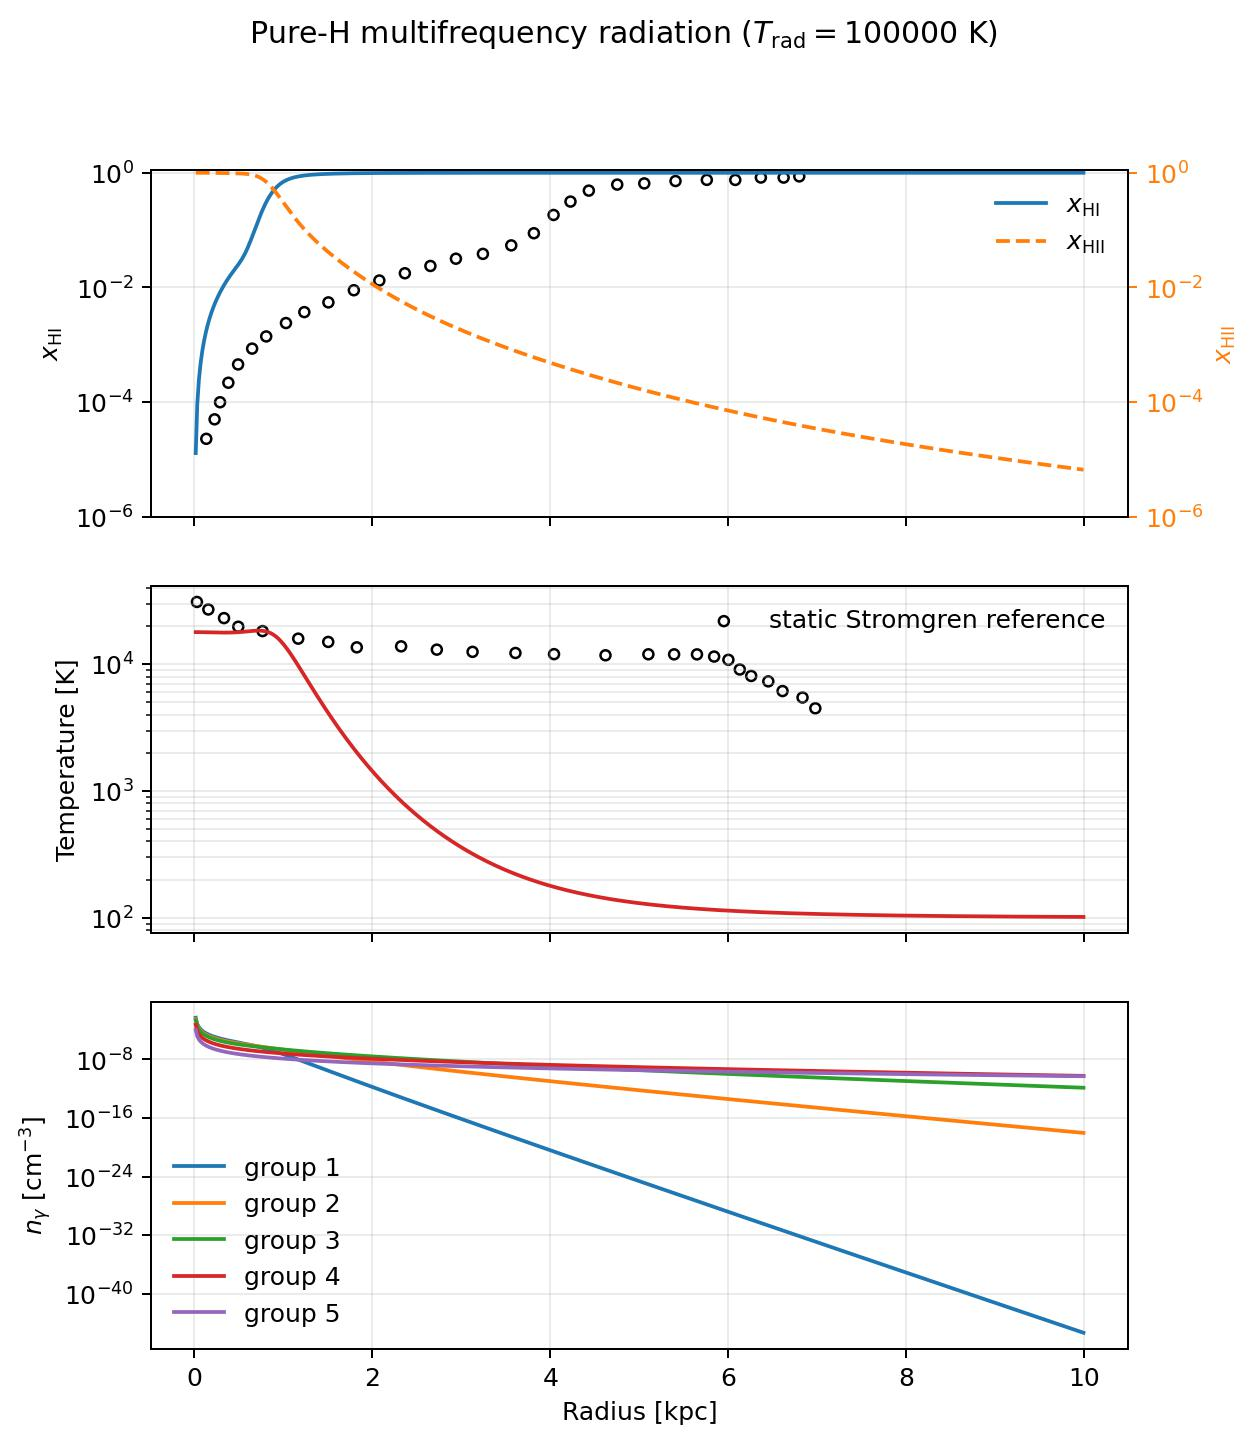
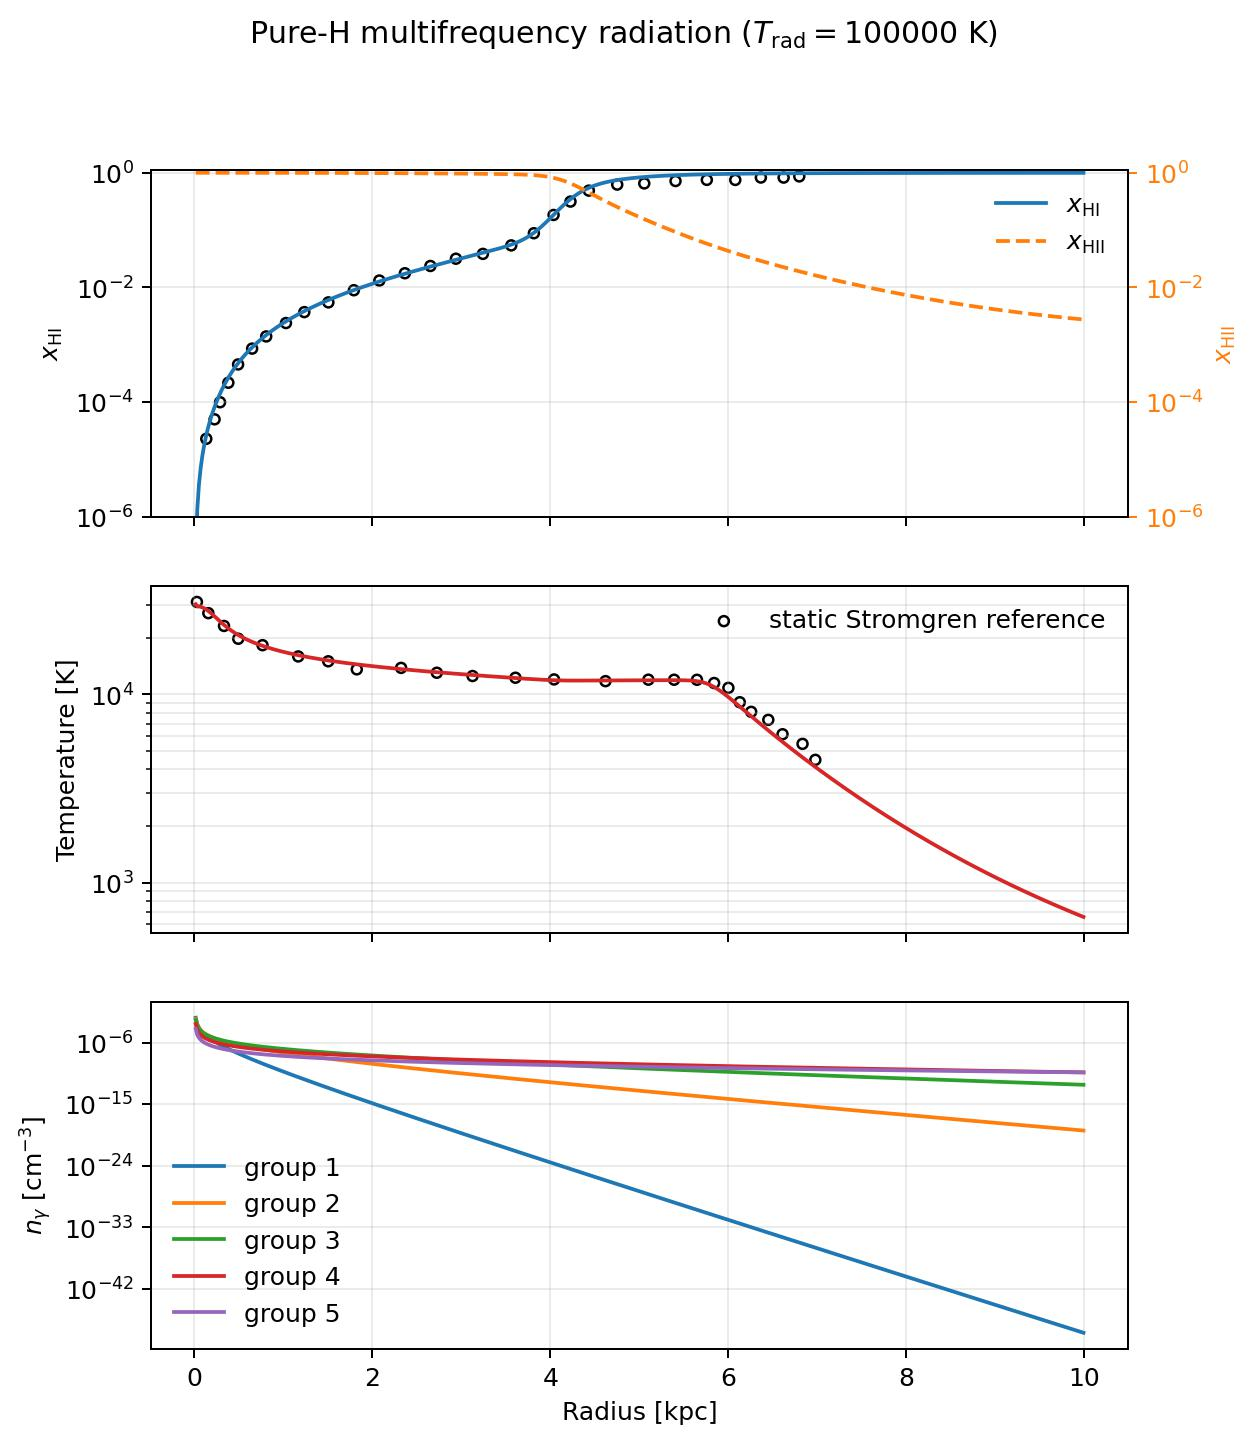
Fixed the initial EOS issue that affect the temperature of STromgren sphere

diff --git a/tests/test_example.py b/tests/test_example.py
@@ -365,7 +365,8 @@ class Testing(unittest.TestCase):
         runparams, icparams = load_example_parameters(config_filename)
 
         self.assertEqual(runparams['radiative_transfer'], True)
-        self.assertTrue(runparams['hydrogen_initial_collisional_equilibrium'])
+        self.assertFalse(runparams['hydrogen_initial_collisional_equilibrium'])
+        self.assertEqual(runparams['hydrogen_xHI_initial'], 0.9988)
         self.assertEqual(
             runparams['radiation_spectrum_total_photon_rate'].to_value(1.0 / unyt.s),
             5.0e48,
@@ -387,6 +388,44 @@ class Testing(unittest.TestCase):
                 [13.6, 24.6, 35.5, 54.4, 75.0, 50000.0],
             )
             self.assertEqual(len(group['ionizing_photon_energy_erg']), 5)
+        self.assertEqual(icparams['number_of_cells'], 512)
+
+    def test_multifrequency_radiative_transfer_sph1d_c2ray_uses_distinct_outputs(self):
+        config_filename = (
+            Path(__file__).resolve().parents[1]
+            / 'example'
+            / 'MultiFrequencyRadiativeTransferSph1D'
+            / 'multifrequency_radiative_transfer_sph1d_c2ray.yaml'
+        )
+        runparams, icparams = load_example_parameters(config_filename)
+
+        self.assertEqual(runparams['radiative_transfer_temporal_scheme'], 'c2ray')
+        self.assertEqual(runparams['outfileprefix'], 'Output_C2Ray')
+        self.assertEqual(
+            Path(runparams['ICfilename']).name,
+            'InitialCondition_C2Ray.hdf5',
+        )
+        self.assertEqual(
+            runparams['figure_filename'],
+            'MultiFrequencyRadiativeTransferSph1D_C2Ray.jpg',
+        )
+        self.assertEqual(icparams['number_of_cells'], 512)
+
+    def test_multifrequency_radiative_transfer_sph1d_c2ray_dt0p05_uses_small_timestep(self):
+        config_filename = (
+            Path(__file__).resolve().parents[1]
+            / 'example'
+            / 'MultiFrequencyRadiativeTransferSph1D'
+            / 'multifrequency_radiative_transfer_sph1d_c2ray_dt0p05.yaml'
+        )
+        runparams, icparams = load_example_parameters(config_filename)
+
+        self.assertEqual(runparams['radiative_transfer_temporal_scheme'], 'c2ray')
+        self.assertEqual(runparams['outfileprefix'], 'Output_C2Ray_dt0p05')
+        self.assertEqual(
+            runparams['evolution_timestep'].to_value(unyt.Myr),
+            0.05,
+        )
         self.assertEqual(icparams['number_of_cells'], 512)
 
     def test_stellar_wind_bubble1d_uses_yaml_config(self):

diff --git a/tests/test_solver.py b/tests/test_solver.py
@@ -1,5 +1,6 @@
 import unittest
 from types import SimpleNamespace
+from unittest.mock import patch
 
 import numpy as np
 import unyt
@@ -165,6 +166,49 @@ class Testing(unittest.TestCase):
 
         with self.assertRaisesRegex(ValueError, "par\\.CodeUnits"):
             sim.Callreadhdf5()
+
+    @patch('radhydropy.rsim.rio.readhdf5')
+    def test_callreadhdf5_rebuilds_eos_from_restored_header(self, readhdf5):
+        restored_units = CodeUnits.from_mapping(
+            {
+                'name': 'restored_units',
+                'InternalUnitSystem': {
+                    'UnitMass_in_cgs': 2.0,
+                    'UnitLength_in_cgs': 3.0,
+                    'UnitVelocity_in_cgs': 4.0,
+                    'UnitCurrent_in_cgs': 1.0,
+                    'UnitTemp_in_cgs': 5.0,
+                },
+            }
+        )
+        sim = Rsim.__new__(Rsim)
+        sim.par = SimpleNamespace(
+            ICfilename='dummy.hdf5',
+            CodeUnits=CODE_UNITS,
+            EOStype='polytropic',
+            gamma=1.4,
+            time=0.0,
+        )
+        sim.mesh = SimpleNamespace()
+        sim.fluid = RealFluid()
+        original_eos = RHEOS('polytropic', gamma=1.4, code_units=CODE_UNITS)
+        sim.fluid.eos = original_eos
+        sim.checkparams = lambda: None
+
+        def restore_header(par, mesh, fluid, filename):
+            par.EOStype = 'polytropic'
+            par.gamma = 5.0 / 3.0
+            par.CodeUnits = restored_units
+            par.time = 7.0
+
+        readhdf5.side_effect = restore_header
+        sim.Callreadhdf5()
+
+        self.assertIsNot(sim.fluid.eos, original_eos)
+        self.assertEqual(sim.fluid.eos.EOStype, 'polytropic')
+        self.assertEqual(sim.fluid.eos.gamma, 5.0 / 3.0)
+        self.assertIs(sim.fluid.eos.CodeUnits, restored_units)
+        self.assertEqual(sim.fluid.time, 7.0)
 
     def test_open_boundary_fills_all_ghost_cells(self):
         fluid = Fluid()

diff --git a/example/MultiFrequencyRadiativeTransferSph1D/multifrequency_radiative_transfer_sph1d.py b/example/MultiFrequencyRadiativeTransferSph1D/multifrequency_radiative_transfer_sph1d.py
@@ -68,9 +68,11 @@ def _save_plot(output_filename, config, figure_filename, config_filename):
     temperature_K = (
         np.asarray(fluid.temp[interior], dtype=float) * code.temperature_unit
     ).to_value(unyt.K)
+    ngamma_values = np.asarray(fluid.ngamma, dtype=float)
+    if ngamma_values.ndim == 1:
+        ngamma_values = ngamma_values[None, :]
     ngamma = (
-        np.asarray(fluid.ngamma[:, interior], dtype=float)
-        * code.number_density_unit
+        ngamma_values[:, interior] * code.number_density_unit
     ).to_value(1.0 / unyt.cm**3)
 
     xhi_reference = _resolve_reference(
@@ -153,9 +155,13 @@ def _save_plot(output_filename, config, figure_filename, config_filename):
 def main(config_filename=DEFAULT_CONFIG):
     runparams, icparams = load_example_parameters(config_filename, Path.cwd())
     config = {**runparams, **icparams}
-    runparams["ICfilename"] = str(Path(runparams["outdir"]) / "InitialCondition.hdf5")
-    runparams["outdir"] = str(Path.cwd())
-    runparams["savedir"] = str(Path.cwd())
+    output_dir = Path.cwd()
+    ic_filename = Path(runparams.get("ICfilename", "InitialCondition.hdf5"))
+    if not ic_filename.is_absolute():
+        ic_filename = output_dir / ic_filename
+    runparams["ICfilename"] = str(ic_filename)
+    runparams["outdir"] = str(output_dir)
+    runparams["savedir"] = str(output_dir)
     config.update(runparams)
 
     tools.write_initial_condition(config, runparams)
@@ -168,7 +174,9 @@ def main(config_filename=DEFAULT_CONFIG):
         runparams["final_time"],
         runparams["evolution_timestep"],
     )
-    output_filename = Path(runparams["outdir"]) / "Output_000.hdf5"
+    output_filename = output_dir / (
+        f"{runparams.get('outfileprefix', 'Output')}_000.hdf5"
+    )
     rio.writehdf5(sim, output_filename)
     figure_filename = Path(runparams["savedir"]) / config.get(
         "figure_filename", "MultiFrequencyRadiativeTransferSph1D.jpg"

diff --git a/radhydropy/rsim.py b/radhydropy/rsim.py
@@ -59,6 +59,15 @@ class Rsim():
         print("--- %s seconds ---" % (time.time() - start_time))
         self._require_code_units()
         rio.readhdf5(self.par, self.mesh, self.fluid, self.par.ICfilename)
+        # ``readhdf5`` restores EOS parameters and code units from the file
+        # header.  The EOS object was created before that restoration in
+        # ``__init__``, so rebuild it to prevent stale gamma/units from being
+        # used for pressure, energy, and temperature conversions.
+        self.fluid.eos = EOS(
+            self.par.EOStype,
+            self.par.gamma,
+            getattr(self.par, 'CodeUnits', None),
+        )
         self.checkparams()
         self.fluid.SetFluidTime(self.par.time)
         print("--- Start Initial Time ---")

diff --git a/radhydropy/solver.py b/radhydropy/solver.py
@@ -272,8 +272,8 @@ class Solver():
         for attr in fields:
             quan = getattr(fluid, attr)
             if attr == 'ngamma' and np.ndim(quan) == 2:
-                quan[:, left_ghost] = quan[:, interior][-noghost:]
-                quan[:, right_ghost] = quan[:, interior][:noghost]
+                quan[:, left_ghost] = quan[:, interior][:, -noghost:]
+                quan[:, right_ghost] = quan[:, interior][:, :noghost]
             else:
                 quan[left_ghost] = quan[interior][-noghost:]
                 quan[right_ghost] = quan[interior][:noghost]

diff --git a/example/StaticStromgrenSpherePhotoheating1D/tools.py b/example/StaticStromgrenSpherePhotoheating1D/tools.py
@@ -137,7 +137,10 @@ def build_static_problem(config):
             config.get('initial_temperature', 1.0e4 * unyt.K).to_value(unyt.K)
         )
     else:
-        fluid.xHI = np.ones(par.nogrid)
+        fluid.xHI = np.ones(par.nogrid) * config.get(
+            'hydrogen_xHI_initial',
+            1.0,
+        )
     if par.thermochemistry_network == 'hydrogen_helium':
         fluid.xHeI = np.ones(par.nogrid) * config.get(
             'hydrogen_helium_xHeI_initial', 1.0

diff --git a/docs/multifrequency_radiative_transfer_sph1d.rst b/docs/multifrequency_radiative_transfer_sph1d.rst
@@ -19,6 +19,22 @@ The default setup uses five groups with edges
 simulation has ``n_H = 10^-3 cm^-3``, 512 spherical cells, and evolves to
 100 Myr.
 
+The same setup can be run with the causal C²-Ray temporal update using a
+separate configuration and output set::
+
+   python multifrequency_radiative_transfer_sph1d.py \
+     --config multifrequency_radiative_transfer_sph1d_c2ray.yaml
+
+This writes ``InitialCondition_C2Ray.hdf5``, ``Output_C2Ray_000.hdf5``, and
+``MultiFrequencyRadiativeTransferSph1D_C2Ray.jpg``. The five frequency groups
+are transported causally from the central source while the hydrogen state and
+temperature evolve over the 0.5 Myr source steps.
+
+For a timestep check, the configuration
+``multifrequency_radiative_transfer_sph1d_c2ray_dt0p05.yaml`` repeats the
+calculation with ``evolution_timestep = 0.05 Myr`` and writes separate
+``dt0p05`` outputs.
+
 HDF5 spectrum input
 -------------------
 
@@ -88,6 +104,16 @@ radiation group.
    :alt: Pure-hydrogen multifrequency radiative-transfer radial profiles
 
    Pure-hydrogen multifrequency radiation at 100 Myr.
+
+The C²-Ray version produces the corresponding profiles below. The plotted
+group photon densities show the causal, group-dependent attenuation through
+the neutral outer medium.
+
+.. figure:: ../example/MultiFrequencyRadiativeTransferSph1D/MultiFrequencyRadiativeTransferSph1D_C2Ray.jpg
+   :width: 100%
+   :alt: Pure-hydrogen multifrequency C²-Ray radial profiles
+
+   Pure-hydrogen multifrequency C²-Ray radiation at 100 Myr.
 
 The repository also includes an H/He variant using the
 ``hydrogen_helium`` thermo-chemistry network. Its output includes the same

diff --git a/example/MultiFrequencyRadiativeTransferSph1D/README.md b/example/MultiFrequencyRadiativeTransferSph1D/README.md
@@ -26,6 +26,22 @@ python multifrequency_radiative_transfer_sph1d.py \
   --config multifrequency_radiative_transfer_sph1d.yaml
 ```
 
+The same five-group pure-hydrogen setup is available with the causal C²-Ray
+temporal update:
+
+```bash
+python multifrequency_radiative_transfer_sph1d.py \
+  --config multifrequency_radiative_transfer_sph1d_c2ray.yaml
+```
+
+The C²-Ray run uses separate `InitialCondition_C2Ray.hdf5` and
+`Output_C2Ray_000.hdf5` files and writes
+`MultiFrequencyRadiativeTransferSph1D_C2Ray.jpg`.
+
+For a timestep-convergence check, use
+`multifrequency_radiative_transfer_sph1d_c2ray_dt0p05.yaml`, which repeats the
+run with `evolution_timestep = 0.05 Myr` and writes separate `dt0p05` files.
+
 The generated spectrum can be recreated from the repository root with:
 
 ```bash
